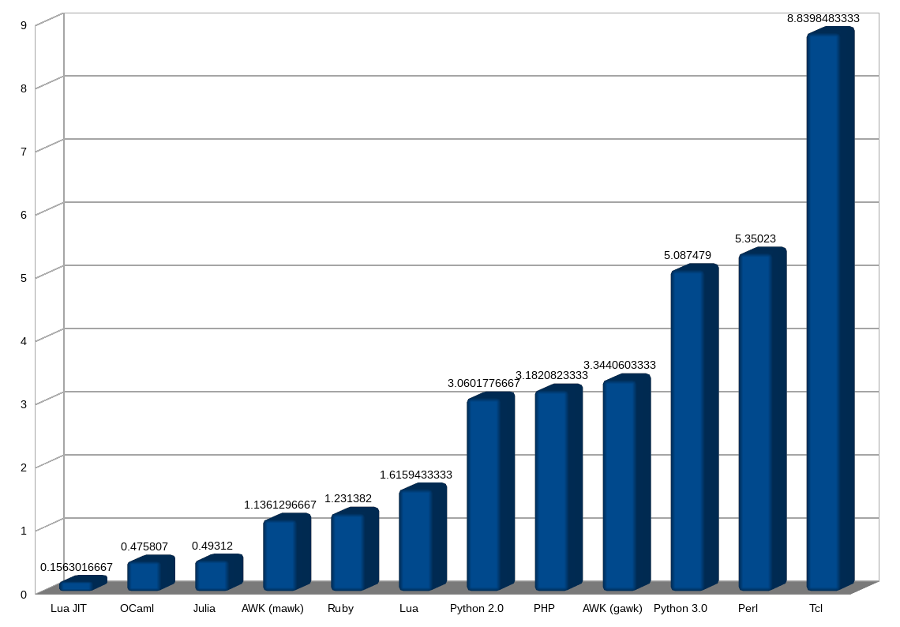
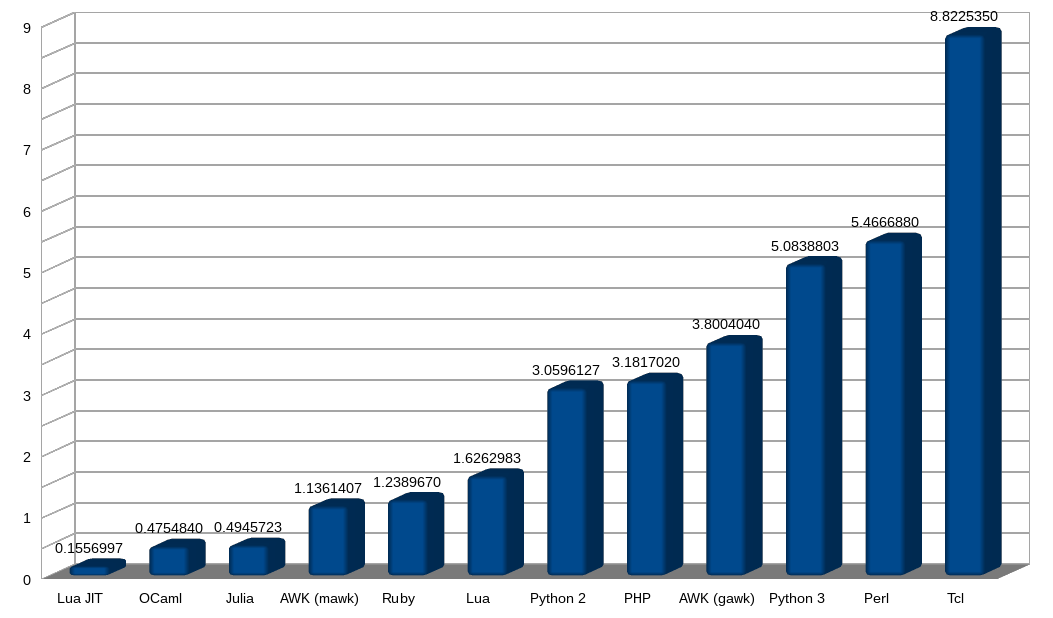
** Added more languages for each test. ** Regenerated the reports. ** Added support for the "ignore.txt" test file which can specify which files to ignore in a given test.

diff --git a/Interpreted/lev-distance-recursive/lev.php b/Interpreted/lev-distance-recursive/lev.php
@@ -1,0 +1,25 @@
+<?php
+function leven($s, $t) {
+
+    if ($s == '') {
+        return strlen($t);
+    }
+    if ($t == '') {
+        return strlen($s);
+    }
+
+    $s1 = substr($s, 1);
+    $t1 = substr($t, 1);
+
+    return ($s[0] == $t[0]
+        ? leven($s1, $t1)
+        : 1 + min(
+                leven($s1, $t1),
+                leven($s,  $t1),
+                leven($s1,  $t)
+              )
+          );
+}
+
+echo leven($argv[1], $argv[2]), "\n";
+?>

diff --git a/Interpreted/fibonacci-recursive/fib.php b/Interpreted/fibonacci-recursive/fib.php
@@ -1,0 +1,7 @@
+<?php
+function fib($n) {
+    return $n < 2 ? $n : fib($n-1) + fib($n-2);
+}
+
+echo fib($argv[1]), "\n";
+?>
